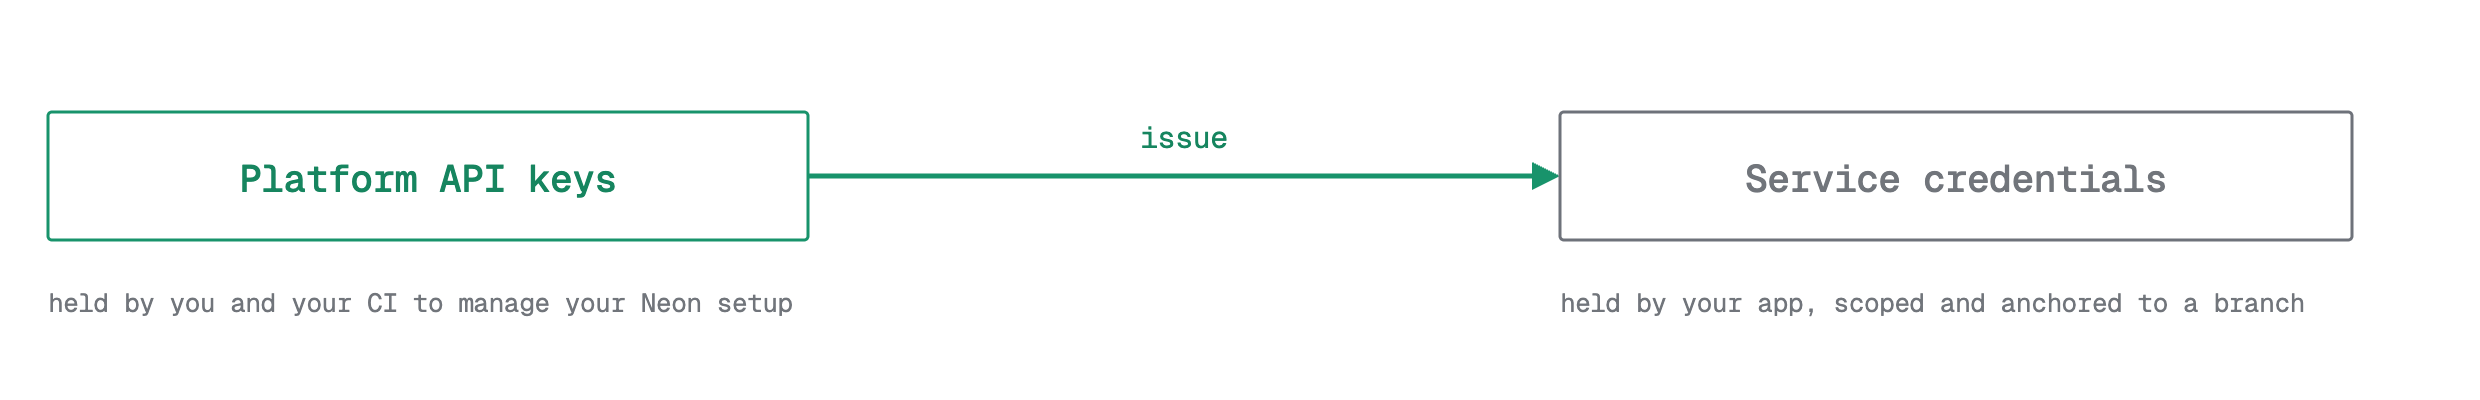
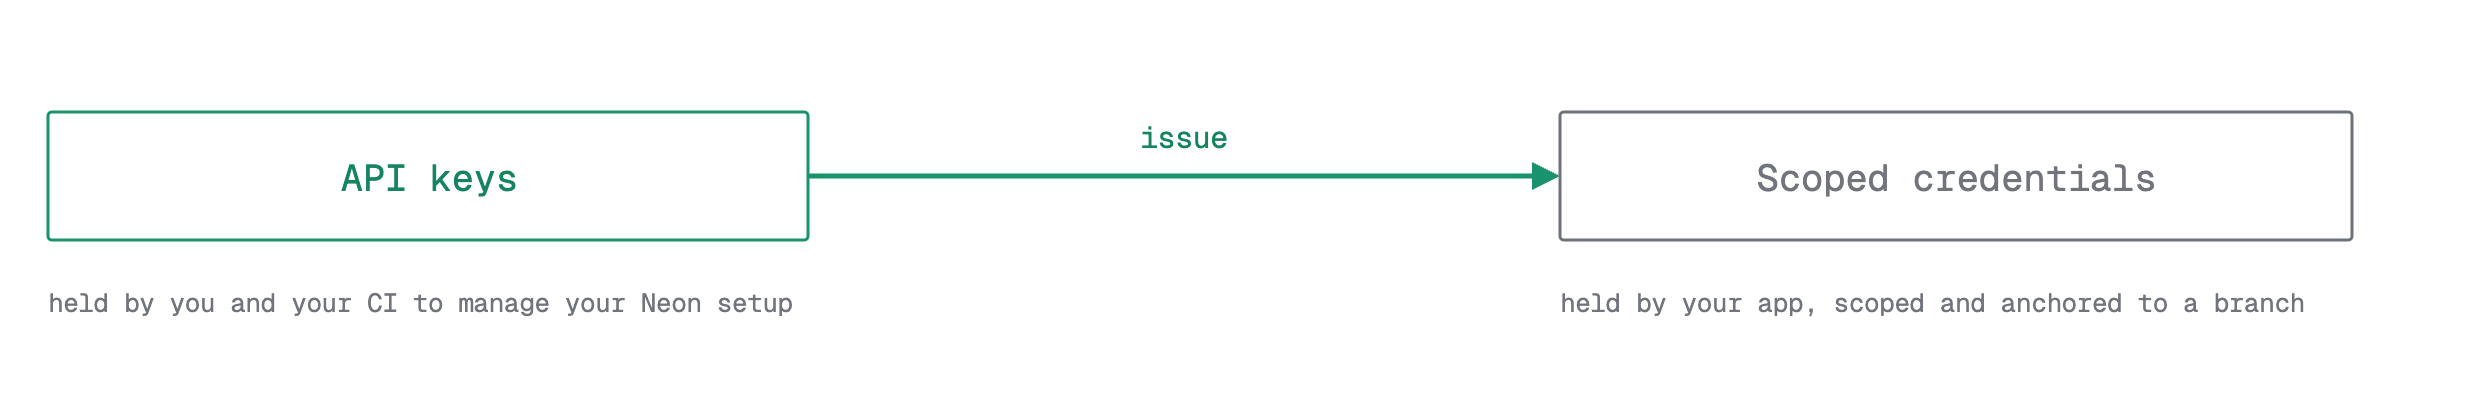
docs: address review feedback on credentials & access
Reframe intro and enrich the scoped-credentials bullet; rename 'platform API key' to 'API keys' and 'service credential' to 'scoped credential' to match the existing auth docs; update the hero and scope-branch diagrams and their alt text.

Changed region(s): [[0.0931, 0.39, 0.2484, 0.48], [0.6831, 0.39, 0.8694, 0.48]]

diff --git a/content/docs/concepts/credentials-access.md b/content/docs/concepts/credentials-access.md
@@ -1,10 +1,10 @@
 ---
 title: Credentials & access
-subtitle: How API keys, service credentials, permissions, and network controls govern access to your backend
+subtitle: How API keys, scoped credentials, permissions, and network controls govern access to your backend
 summary: >-
-  Neon issues two kinds of credentials: platform API keys that manage your
-  projects, branches, and settings, and service credentials that a running app
-  uses. A service credential is limited by its scopes and anchored to a branch
+  Neon issues two kinds of credentials: API keys that manage your
+  projects, branches, and settings, and scoped credentials that a running app
+  uses. A scoped credential is limited by its scopes and anchored to a branch
   and its descendants, and it appears as an S3-compatible access key or a bearer
   token. The Data API instead takes a JWT from a trusted issuer and runs each
   query as a Postgres role. Your access to a project is your organization role
@@ -13,12 +13,12 @@ summary: >-
 enableTableOfContents: true
 ---
 
-Neon issues two kinds of credentials, and they do different jobs:
+Neon separates the credentials that manage your setup from the ones your running app uses:
 
-- **Platform API keys** manage your Neon setup: create projects and branches, change settings, read usage, and issue the service credentials your app uses. Use these in your tooling and CI.
-- **Service credentials** do your running app's work, like an object read or a model call. Use these in your app's runtime environment.
+- **API keys** are your platform-level credential. They manage your Neon setup: create projects and branches, change settings, read usage, and issue the scoped credentials your app uses. Use these in your tooling and CI.
+- **Scoped credentials** do your running app's work: reading a file from Object Storage, calling a model through the AI Gateway. Each is limited to the scopes you give it. Use these in your app's runtime environment.
 
-![Diagram of Neon's two credential kinds: platform API keys that manage your Neon setup, and service credentials your running app uses, with a platform API key issuing service credentials in one direction only.](/docs/concepts/credentials-access.png 'no-border')
+![Diagram of Neon's two credential kinds: API keys that manage your Neon setup, and scoped credentials your running app uses, with an API key issuing scoped credentials in one direction only.](/docs/concepts/credentials-access.png 'no-border')
 
 Availability differs by product and by region. See [Product availability](/docs/introduction/regions#product-availability).
 
@@ -26,12 +26,12 @@ Availability differs by product and by region. See [Product availability](/docs/
 
 | Goal                                                                          | Use                                                           | Scope and reach                                                                                                                                          |
 | ----------------------------------------------------------------------------- | ------------------------------------------------------------- | -------------------------------------------------------------------------------------------------------------------------------------------------------- |
-| Create or manage projects, branches, and settings, or issue other credentials | [Platform API key](/docs/manage/api-keys)                     | Personal keys act with your effective access; organization keys cover one organization; project-scoped keys cover one project and can't reach outside it |
-| Have a workload read files or call models                                     | [Service credential](/docs/storage/authentication)           | By its scopes, such as `storage:read`, plus a branch anchor that covers the branch and its descendants                                                   |
+| Create or manage projects, branches, and settings, or issue other credentials | [API key](/docs/manage/api-keys)                     | Personal keys act with your effective access; organization keys cover one organization; project-scoped keys cover one project and can't reach outside it |
+| Have a workload read files or call models                                     | [Scoped credential](/docs/storage/authentication)           | By its scopes, such as `storage:read`, plus a branch anchor that covers the branch and its descendants                                                   |
 | Connect to Postgres                                                           | [Database connection credential](/docs/connect/connect-intro) | IP Allow and Private Networking apply here, and only here                                                                                                |
 | Authorize an end user through the Data API                                    | [JWT from a trusted issuer](/docs/data-api/access-control)    | Trust is registered on the project, and `GRANT`s and RLS in your database decide what the query can do                                                   |
 
-## Platform API keys
+## API keys
 
 <div className="flex items-center gap-6 sm:flex-col">
   <div style={{ flex: '1 1 50%' }}>
@@ -42,24 +42,24 @@ An API key is a bearer token for the [Neon API](/docs/reference/api), and there'
 - **Organization keys** cover one organization.
 - **Project-scoped keys** cover one project.
 
-An API key can create a service credential, but a service credential cannot create or manage anything, so keep API keys out of your application runtime. See [Manage API keys](/docs/manage/api-keys).
+An API key can create a scoped credential, but a scoped credential cannot create or manage anything, so keep API keys out of your application runtime. See [Manage API keys](/docs/manage/api-keys).
 
 You can also sign the CLI in with `neon auth`; it then acts with your access, like a personal key. For scripts and CI, give the CLI an API key instead. See [CLI authentication](/docs/cli/auth).
 
   </div>
   <div style={{ flex: '1 1 50%' }}>
 
-![Diagram of the three platform API key kinds nested by decreasing reach: personal keys, then organization keys, then project-scoped keys.](/docs/concepts/credentials-api-key-kinds.png 'no-border')
+![Diagram of the three API key kinds nested by decreasing reach: personal keys, then organization keys, then project-scoped keys.](/docs/concepts/credentials-api-key-kinds.png 'no-border')
 
   </div>
 </div>
 
-## Service credentials
+## Scoped credentials
 
 <div className="flex items-center gap-6 sm:flex-col">
   <div style={{ flex: '1 1 50%' }}>
 
-Most of what your running app connects to uses service credentials. Object Storage and the AI Gateway use one shared credential, and the scopes you attach decide what it unlocks:
+Most of what your running app connects to uses scoped credentials. Object Storage and the AI Gateway use one shared credential, and the scopes you attach decide what it unlocks:
 
 - `storage:read` and `storage:write` for Object Storage.
 - `ai_gateway:invoke` for the AI Gateway.
@@ -69,7 +69,7 @@ A credential has two independent dimensions: its scopes say what it can do, and 
   </div>
   <div style={{ flex: '1 1 50%' }}>
 
-![Diagram of a service credential defined by two independent things: the scopes that say what it can do, and the branch anchor that says where it reaches.](/docs/concepts/credentials-scope-branch.png 'no-border')
+![Diagram of a scoped credential defined by two independent things: the scopes that say what it can do, and the branch anchor that says where it reaches.](/docs/concepts/credentials-scope-branch.png 'no-border')
 
   </div>
 </div>
@@ -91,11 +91,11 @@ A credential is tied to the branch you create it on. It works on that branch and
 
 ### S3 keys and bearer tokens
 
-A service credential comes in the form each service expects: an S3-compatible access key for Object Storage, and a bearer token for services you call over HTTP, like the AI Gateway. Both are the same underlying credential, so if you revoke or delete it, both stop working at once. You cannot change a credential after you create it: you cannot add scopes or move it to a different branch. To change either, create a new credential and revoke the old one. See [Object storage authentication](/docs/storage/authentication#mapping-to-your-s3-sdk).
+A scoped credential comes in the form each service expects: an S3-compatible access key for Object Storage, and a bearer token for services you call over HTTP, like the AI Gateway. Both are the same underlying credential, so if you revoke or delete it, both stop working at once. You cannot change a credential after you create it: you cannot add scopes or move it to a different branch. To change either, create a new credential and revoke the old one. See [Object storage authentication](/docs/storage/authentication#mapping-to-your-s3-sdk).
 
 ### Functions
 
-A Neon Function is given a service credential for the branch it runs on, so your code can reach Object Storage and the AI Gateway on that branch without you adding a secret. But the function has a public HTTPS URL, and Neon does not check who is calling it. Authenticating incoming requests is up to you, in your handler. See [Environment variables](/docs/compute/functions/environment-variables) and [Neon Functions authentication](/docs/compute/functions/authentication).
+A Neon Function is given a scoped credential for the branch it runs on, so your code can reach Object Storage and the AI Gateway on that branch without you adding a secret. But the function has a public HTTPS URL, and Neon does not check who is calling it. Authenticating incoming requests is up to you, in your handler. See [Environment variables](/docs/compute/functions/environment-variables) and [Neon Functions authentication](/docs/compute/functions/authentication).
 
 ### The Data API and Managed Better Auth
 
